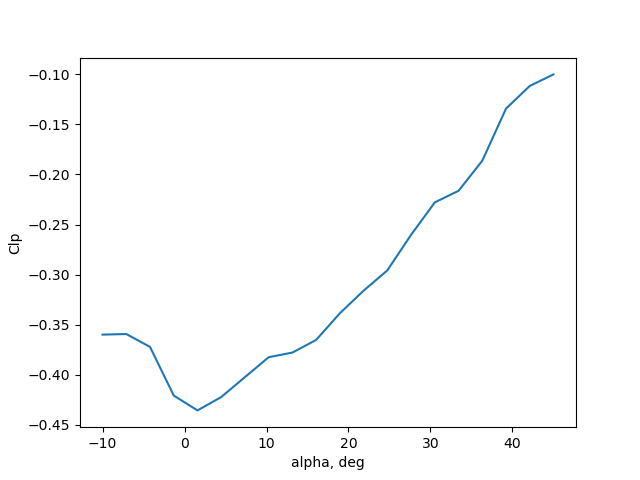
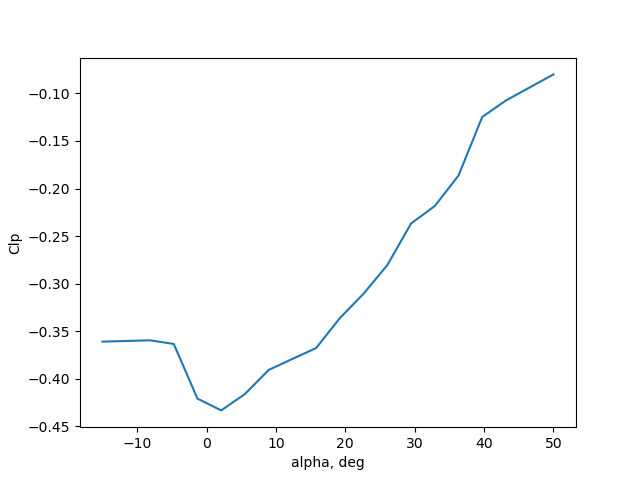
Add thrust plots.

diff --git a/test_f16.py b/test_f16.py
@@ -26,10 +26,12 @@ def plot_table2D(title, path, x_grid, y_grid, x_label, y_label, f_table):
 
 
 def test_tables():
-    alpha_deg_grid = np.linspace(-10, 45, 20)
-    beta_deg_grid = np.linspace(-30, 30, 20)
-    elev_deg_grid = np.linspace(-24, 24, 20)
-    ail_deg_grid = np.linspace(-24, 24, 20)
+    alpha_deg_grid = np.linspace(-15, 50, 20)
+    beta_deg_grid = np.linspace(-35, 35, 20)
+    elev_deg_grid = np.linspace(-30, 30, 20)
+    ail_deg_grid = np.linspace(-30, 30, 20)
+    mach_grid = np.linspace(0, 1.1, 20)
+    alt_grid = np.linspace(-1e4, 6e4, 20)
 
     path = pathlib.Path('results')
     path.mkdir(parents=True, exist_ok=True)
@@ -43,6 +45,9 @@ def test_tables():
                  lambda x, y: tables['Cy'](x, y, 0))
     plot_table2D('Cz', path, alpha_deg_grid, beta_deg_grid, 'alpha_deg', 'beta_deg',
                  lambda x, y: tables['Cz'](x, y, 0))
+    plot_table2D('thrust_idle', path, alt_grid, mach_grid, 'alt, ft', 'mach', tables['thrust_idle'])
+    plot_table2D('thrust_mil', path, alt_grid, mach_grid, 'alt, ft', 'mach', tables['thrust_mil'])
+    plot_table2D('thrust_max', path, alt_grid, mach_grid, 'alt, ft', 'mach', tables['thrust_max'])
 
     plt.figure()
     lift = []
